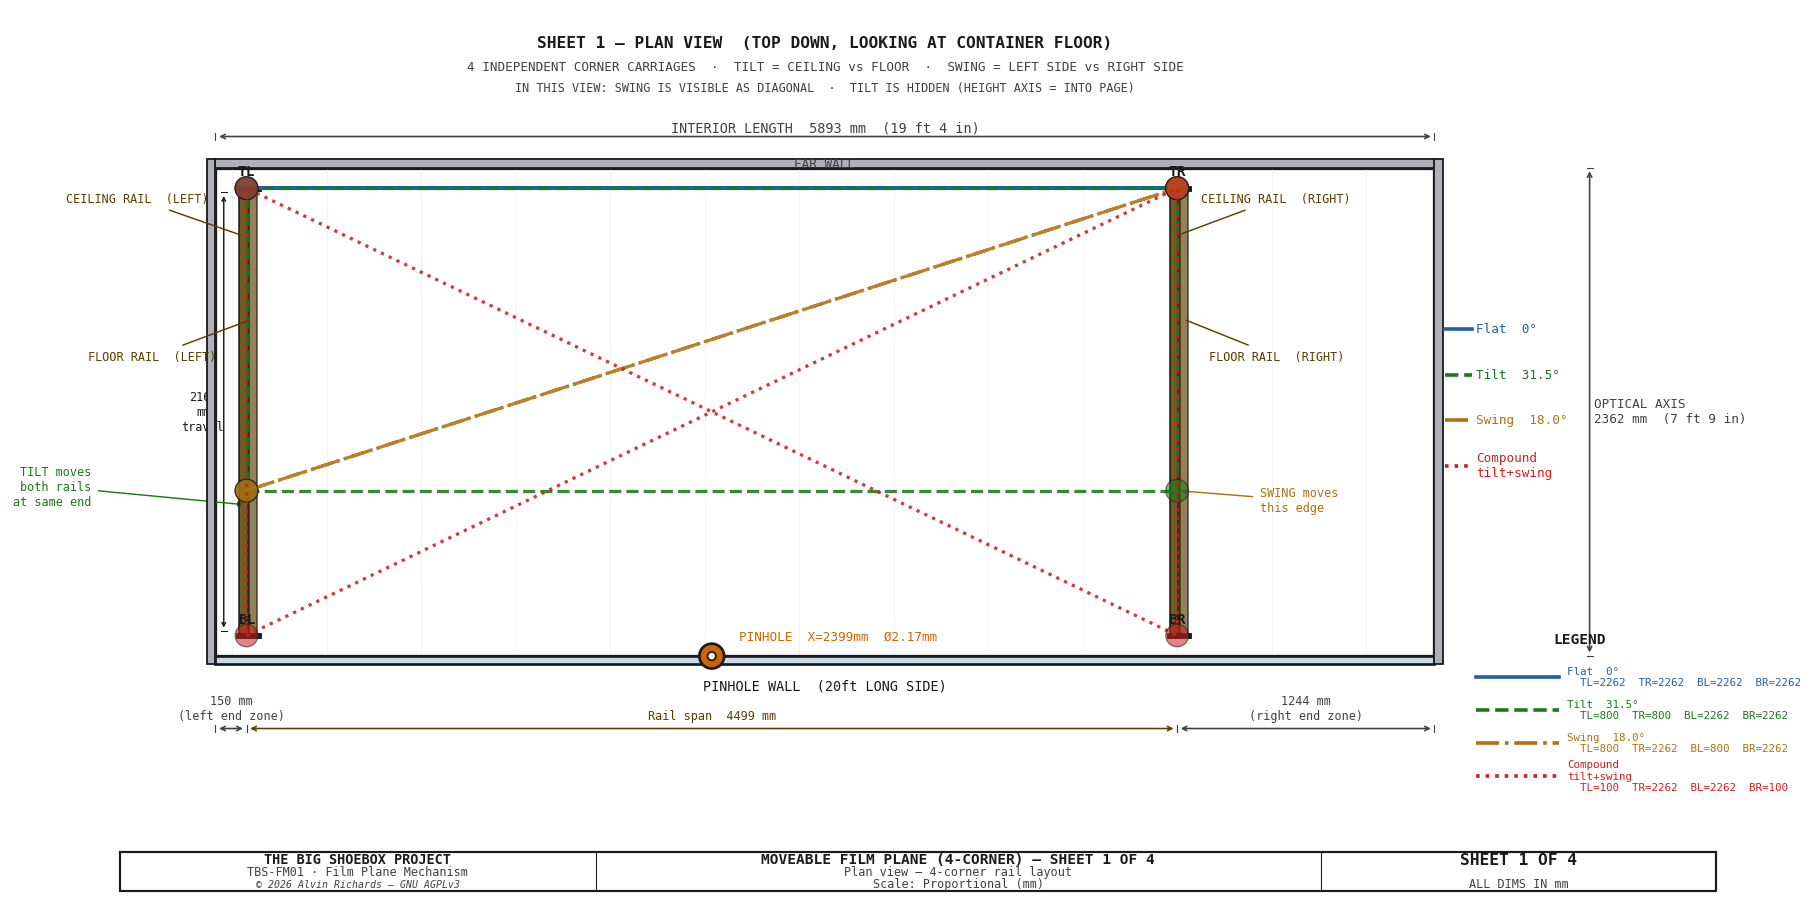
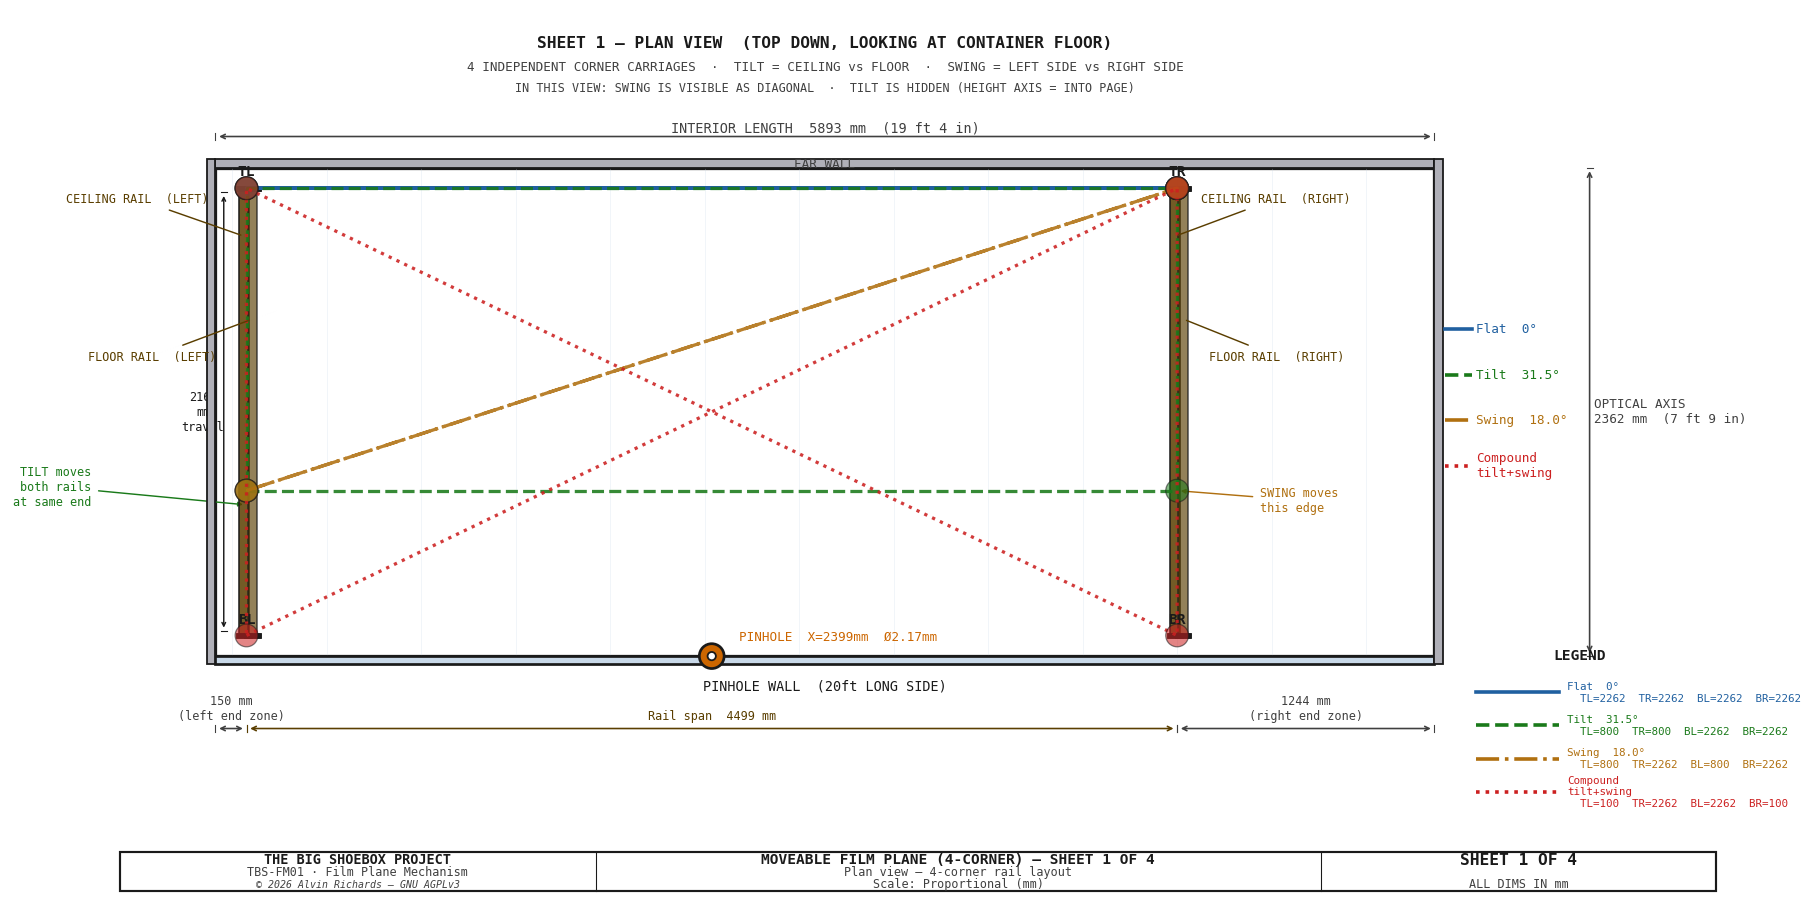
Nudge film-plane-sheet1 legend down another 10%

Changed region(s): [[0.8031, 0.6792, 0.9884, 0.8953]]

diff --git a/generate_film_plane_mechanism.py b/generate_film_plane_mechanism.py
@@ -279,7 +279,7 @@ def sheet1():
 
     # Legend box — right side, above title block
     leg_x = L + 200
-    leg_y = -100
+    leg_y = -175
     ax.text(leg_x + 500, leg_y + 160, "LEGEND", color=WHITE,
             fontsize=8, fontweight="bold", ha="center", **FONT)
     for i, (name, d_TL, d_TR, d_BL, d_BR, col, ls) in enumerate(CONFIGS):
